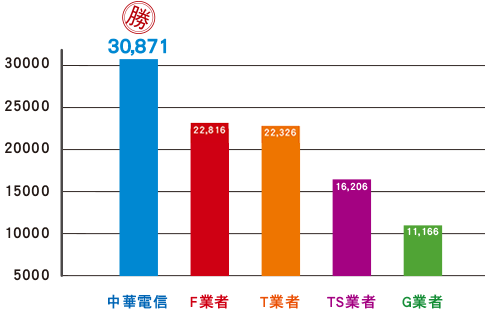
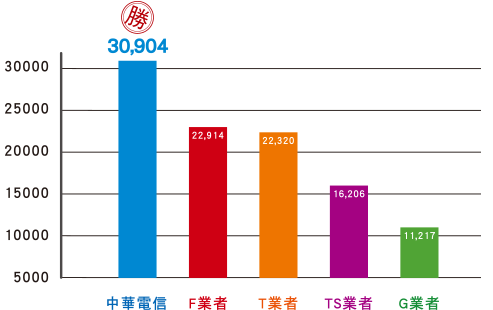
大4G優勢
更新日期
更換柱狀數據圖

diff --git a/demo/advantage/index.html b/demo/advantage/index.html
@@ -1458,7 +1458,7 @@ height="0" width="0" style="display:none;visibility:hidden"></iframe></noscript>
 			</ul>
 			<ul class="txt">
 				<li><h5 class="f-col f-view">基地台最多</h5></li>
-				<li><p class="f-col f-view">根據NCC網站公告，截至2020/3/31，<span>中華電信基地台數量為業界最多</span>，偏遠山區通話不斷線，到哪都能順暢上網，成為出遊的最好幫手。</p></li>
+				<li><p class="f-col f-view">根據NCC網站公告，截至2020/4/30，<span>中華電信基地台數量為業界最多</span>，偏遠山區通話不斷線，到哪都能順暢上網，成為出遊的最好幫手。</p></li>
 			</ul>
 			<ul class="graph">
 				<li><img  class="f-col f-view"src="images/graph_08.png" /></li>
@@ -1476,7 +1476,7 @@ height="0" width="0" style="display:none;visibility:hidden"></iframe></noscript>
 				<li><div class="btn f-col f-view"><a  href="https://www.emome.net/internet_coverage" target="_blank">涵蓋範圍查詢</a></div></li>
 			</ul>
 			<ul>
-				<li class="f-col f-view note">*備註: 1.「涵蓋最廣」係指中華電信已於台、澎、金、馬全部368鄉鎮市區都設有4G基地台提供4G服務；其中，最偏遠的金門縣烏坵鄉離島，目前僅中華電信提供4G服務。2.「基地台最多」係根據通傳會頻率資料庫系統2020/3/31公告，中華電信基地台設備數量最多。3.「頻寬最大」係指中華電信擁有900 + 1800 + 2100 + 2600MHz 四頻段，上下行頻寬共計180MHz，居4G電信業者之冠。</li>
+				<li class="f-col f-view note">*備註: 1.「涵蓋最廣」係指中華電信已於台、澎、金、馬全部368鄉鎮市區都設有4G基地台提供4G服務；其中，最偏遠的金門縣烏坵鄉離島，目前僅中華電信提供4G服務。2.「基地台最多」係根據通傳會頻率資料庫系統2020/4/30公告，中華電信基地台設備數量最多。3.「頻寬最大」係指中華電信擁有900 + 1800 + 2100 + 2600MHz 四頻段，上下行頻寬共計180MHz，居4G電信業者之冠。</li>
 			</ul>
 			<hr/>
 			<h4 class="f-col f-view">技術領先</h4>
